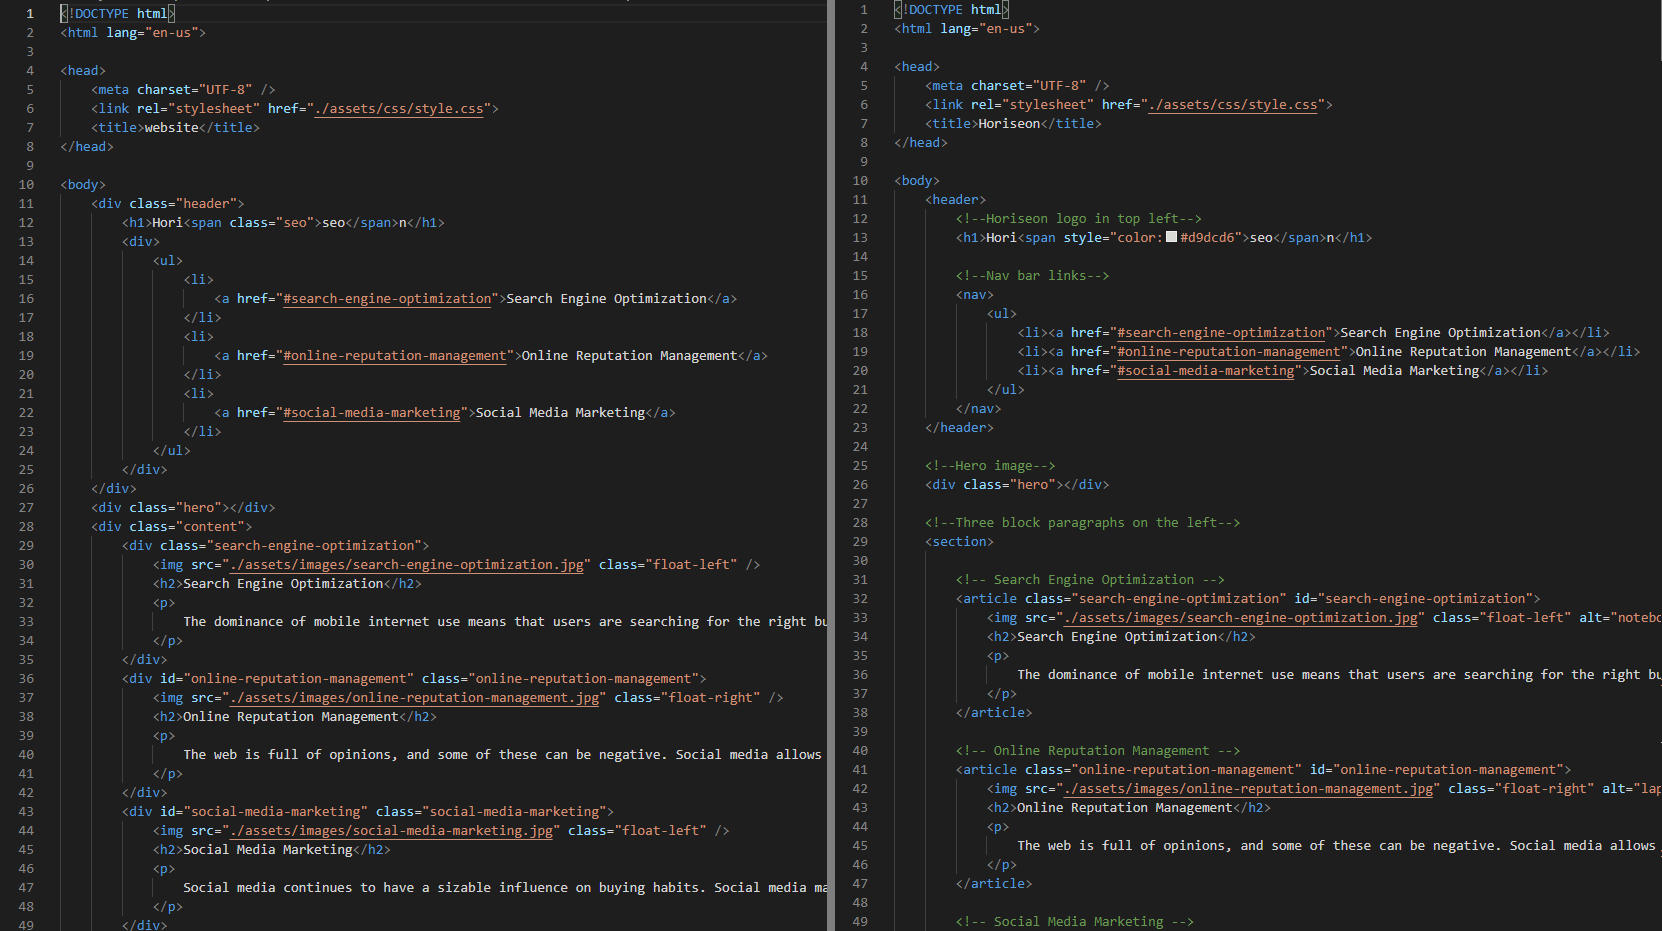
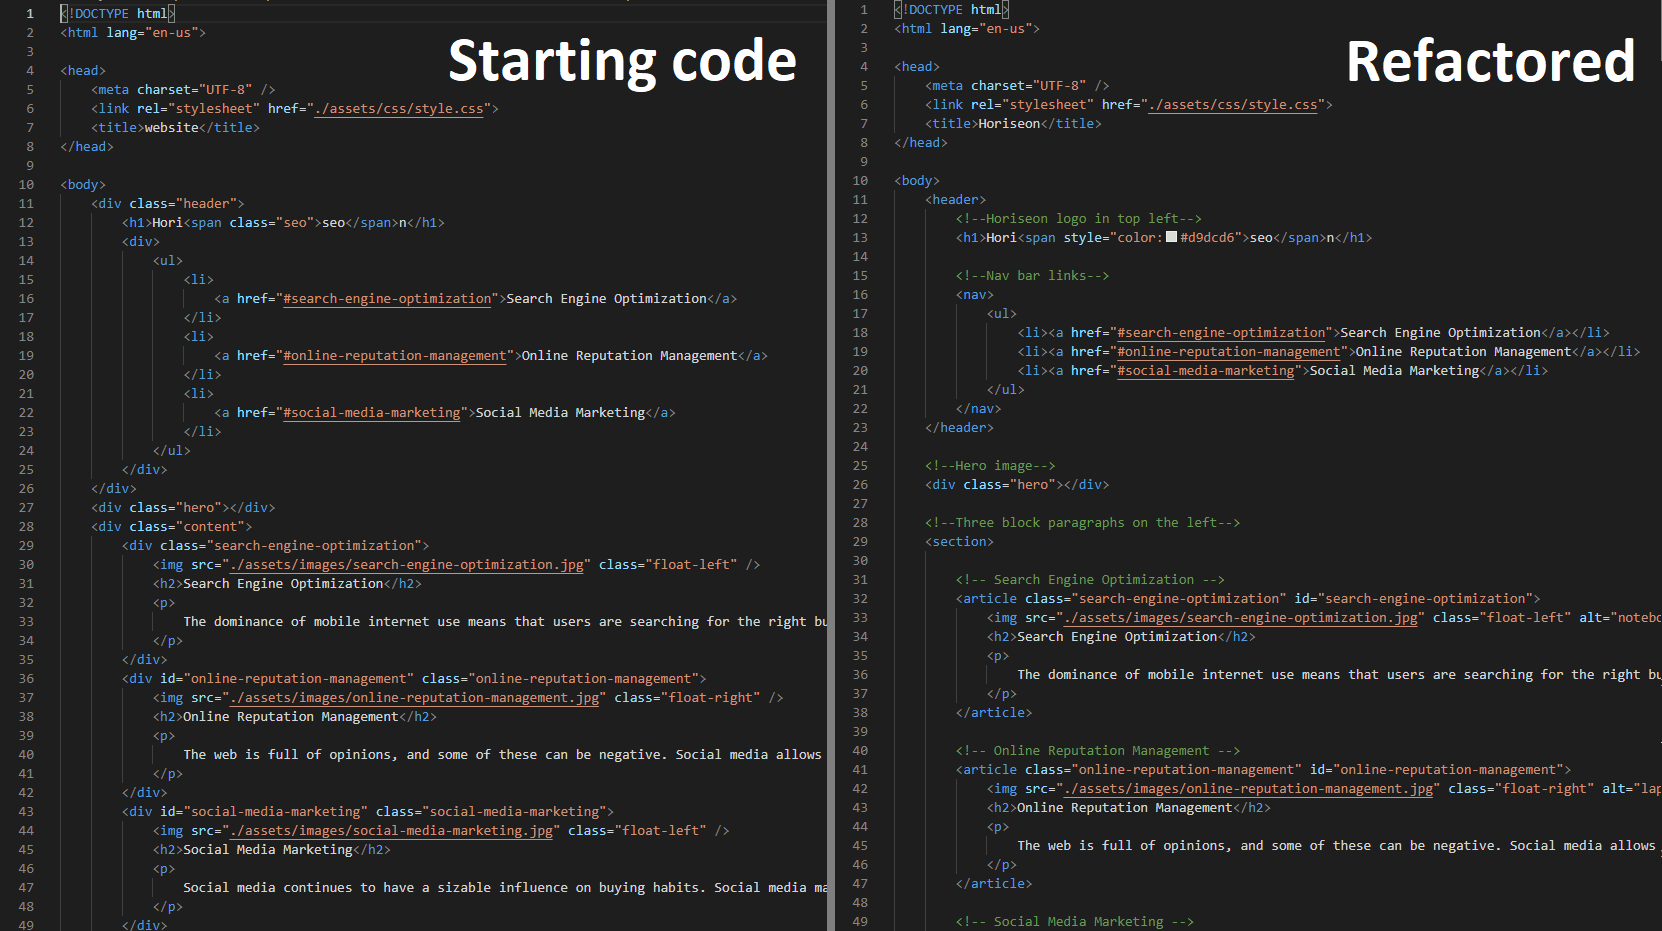
More comments + semantic HTML elements

Changed region(s): [[0.2762, 0.0311, 0.491, 0.0934], [0.7978, 0.0311, 0.9819, 0.0934]]

diff --git a/index.html b/index.html
@@ -64,7 +64,9 @@
             </div>
             <div class="col-md-8">
                 <div class="card-body">
+                                        <!-- Title text -->
                     <h5 class="card-title display-4"><strong>About Me</strong></h5>
+                                        <!-- Article text -->
                     <p class="card-text">
                         Lorem ipsum dolor sit amet, consectetur adipiscing elit. Donec a tempus diam. Praesent faucibus velit et arcu posuere eleifend. Donec vitae leo blandit, rhoncus leo ut, placerat nisl. Aenean non semper diam. Etiam consequat viverra lacus ut auctor. Donec lorem tellus, tristique vitae malesuada id, consectetur nec nunc. Ut eu interdum felis. Integer ultrices libero vitae est lobortis, eget efficitur tellus ultricies. Aenean convallis lacinia dui et luctus. Phasellus at ante bibendum, volutpat lacus eget, viverra ex. Vestibulum id ultrices libero.
                     </p>
@@ -81,7 +83,9 @@
         <div class="row g-0">
             <div class="col-md-8">
                 <div class="card-body">
+                    <!-- Title text -->
                     <h5 class="card-title display-4"><strong>Portfolio</strong></h5>
+                    <!-- Article text -->
                     <p class="card-text">
                         Lorem ipsum dolor sit amet, consectetur adipiscing elit. Donec a tempus diam. Praesent faucibus velit et arcu posuere eleifend. Donec vitae leo blandit, rhoncus leo ut, placerat nisl. Aenean non semper diam. Etiam consequat viverra lacus ut auctor. Donec lorem tellus, tristique vitae malesuada id, consectetur nec nunc. Ut eu interdum felis. Integer ultrices libero vitae est lobortis, eget efficitur tellus ultricies. Aenean convallis lacinia dui et luctus. Phasellus at ante bibendum, volutpat lacus eget, viverra ex. Vestibulum id ultrices libero.
                     </p>

diff --git a/contact.html b/contact.html
@@ -44,28 +44,29 @@
         </form>
         </div>
     </div>
-    </nav>
+</nav>
 
+<!-- Contact Me page and button -->
     
-    <div class="container">
-        <div class="row">
-            <div class="col-md-3">
-                &nbsp;
+<section class="container">
+    <div class="row">
+        <div class="col-md-3">
+            &nbsp;
+        </div>
+        <div class="col-md-6 contact mt-5 pb-3">
+            <h1 class="display-1">Contact Me</h1>
+            <div class="mb-3">
+                <label for="exampleFormControlInput1" class="form-label">Name</label>
+                <input type="email" class="form-control" id="exampleFormControlInput1">
             </div>
-            <div class="col-md-6 contact mt-5 pb-3">
-                <h1 class="display-1">Contact Me</h1>
-                <div class="mb-3">
-                    <label for="exampleFormControlInput1" class="form-label">Name</label>
-                    <input type="email" class="form-control" id="exampleFormControlInput1">
-                </div>
-                <div class="mb-3">
-                    <label for="exampleFormControlTextarea1" class="form-label">Message</label>
-                    <textarea class="form-control" id="exampleFormControlTextarea1" rows="3"></textarea>
-                </div>
-                <button type="submit" class="btn btn-primary">Send</button>
+            <div class="mb-3">
+                <label for="exampleFormControlTextarea1" class="form-label">Message</label>
+                <textarea class="form-control" id="exampleFormControlTextarea1" rows="3"></textarea>
             </div>
+            <button type="submit" class="btn btn-primary">Send</button>
         </div>
     </div>
+</section>
 
 </body>
 </html>

diff --git a/portfolio.html b/portfolio.html
@@ -42,25 +42,26 @@
 
 <!-- Project examples carousel -->
 
-<div class="container">
+<section class="container">
   <div class="row">
     &nbsp;
   </div>
   <div class="carousel slide" data-bs-ride="carousel">
     <ol class="carousel-indicators">
       <li data-bs-target="#carouselExampleCaptions" data-bs-slide-to="0" class="active"></li>
-      <li data-bs-target="#carouselExampleCaptions" data-bs-slide-to="1"></li>
-      <li data-bs-target="#carouselExampleCaptions" data-bs-slide-to="2"></li>
     </ol>
     <div class="carousel-inner">
       <div class="carousel-item active">
         <img src="./assets/images/CodeRefactor.png" class="d-block w-100" alt="Refactored code before and after">
         <div class="carousel-caption d-none d-md-block contact">
+          <!-- Title of work -->
           <h5>Code Refactor</h5>
+          <!-- Description -->
           <p>Refactoring code of an example webpage to improve organization, legibility, and accessibility</p>
         </div>
       </div>
     </div>
+    <!-- Buttons to move through example work, currently don't do anything as there is only one picture -->
     <a class="carousel-control-prev" href="#carouselExampleCaptions" role="button" data-bs-slide="prev">
       <span class="carousel-control-prev-icon" aria-hidden="true"></span>
       <span class="visually-hidden">Previous</span>
@@ -70,7 +71,7 @@
       <span class="visually-hidden">Next</span>
     </a>
   </div>
-</div>
+</section>
 
       <!-- Bootstrap Javascript -->
       <script src="https://cdn.jsdelivr.net/npm/bootstrap@5.0.0-beta1/dist/js/bootstrap.bundle.min.js" integrity="sha384-ygbV9kiqUc6oa4msXn9868pTtWMgiQaeYH7/t7LECLbyPA2x65Kgf80OJFdroafW" crossorigin="anonymous"></script>
